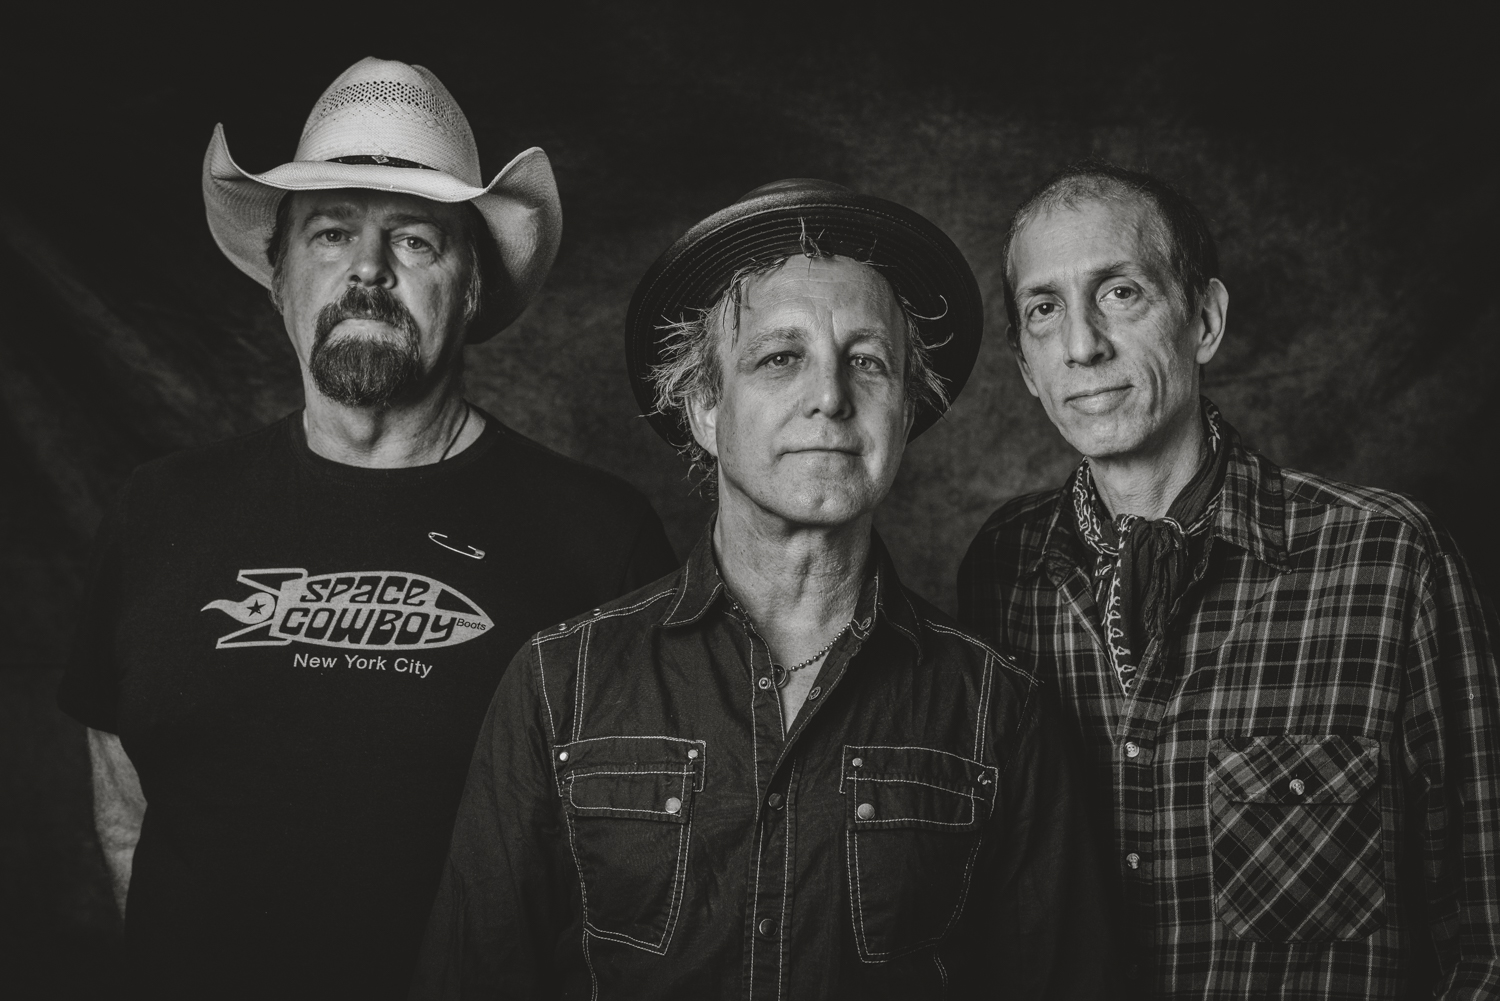
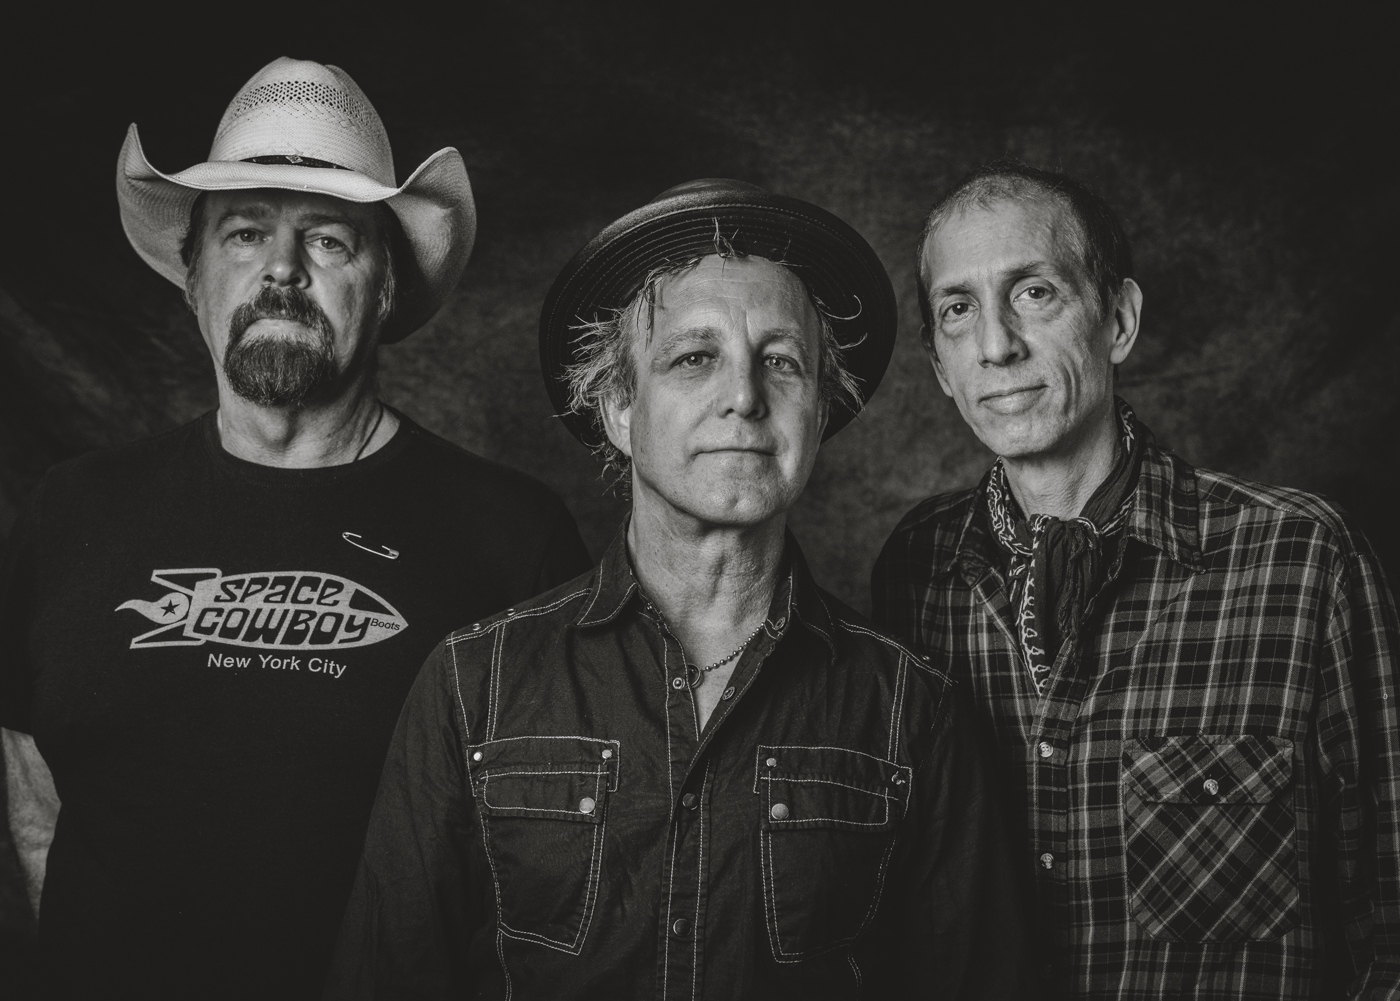
changed background, cropped images, added a few images

diff --git a/index.html b/index.html
@@ -25,7 +25,7 @@
       crossorigin="anonymous"
       referrerpolicy="no-referrer"
     ></script>
-    <script type="module">
+    <!-- <script type="module">
       var canvas = document.querySelector("#c");
       var renderer = new THREE.WebGLRenderer({ antialias: true, canvas: c });
       renderer.setSize(canvas.clientWidth, canvas.clientHeight);
@@ -75,7 +75,7 @@
         renderer.render(scene, camera);
       }
       anim();
-    </script>
+    </script> -->
     <script src="menu_tabs.js"></script>
   </head>
   <body>
@@ -146,23 +146,20 @@
                 <img class='noselect'
                   src="img/ray.jpg"
                 />
-                
                 <div class='rostertext noselect'>RAY CHARLES</div>
                 <a href='https://en.wikipedia.org/wiki/Ray_Charles_(musician,_born_1918)' target='_blank'><div class='overlay'></div></a>
               </td>
               <td>
                 <img class='noselect'
-                  src="https://www.rollingstone.com/wp-content/uploads/2018/06/rs-24185-33639_lg.jpg?resize=1800,1200&w=450"
+                  src="img/davestruestory.jpg"
                 />
-                
                 <div class='rostertext noselect'>DAVE'S TRUE STORY</div>
                 <a href='https://www.davestruestory.com/' target='_blank'><div class='overlay'></div></a>
               </td>
               <td>
                 <img class='noselect'
-                  src="https://ksr-ugc.imgix.net/assets/011/271/113/a538dbbae1fd1e0b871d557c3de01007_original.jpg?ixlib=rb-4.0.2&crop=faces&w=1552&h=873&fit=crop&v=1463673868&auto=format&frame=1&q=92&s=1d41123b2023d352e1a84c7a9f256d83"
+                  src="img/courtney.PNG"
                 />
-                
                 <div class='rostertext noselect'>COURTNEY JONES</div>
                 <a href='https://www.facebook.com/pages/category/Musician-Band/Courtney-Jones-Music-38021533555/' target='_blank'><div class='overlay'></div></a>
               </td>
@@ -172,7 +169,6 @@
                 <img class='noselect'
                   src="img/neil.JPG"
                 />
-                
                 <div class='rostertext noselect'>NEIL ROSENGARDEN</div>
                 <a href='https://neilrosengarden1.bandcamp.com/' target='_blank'><div class='overlay'></div></a>
               </td>
@@ -180,7 +176,6 @@
                 <img class='noselect'
                   src="https://www.americanacma.org/wp-content/uploads/2021/10/Screen-Shot-2021-10-30-at-9.52.56-AM.png"
                 />
-                
                 <div class='rostertext noselect'>LIPBONE REDDING</div>
                 <a href='https://www.lipbone.com/' target='_blank'><div class='overlay'></div></a>
               </td>
@@ -188,7 +183,6 @@
                 <img class='noselect'
                   src="img/sixthletter.PNG"
                 />
-                
                 <div class='rostertext noselect'>THE SIXTH LETTER</div>
                 <a href='https://www.thesixthletter.co.uk/' target='_blank'><div class='overlay'></div></a>
               </td>
@@ -198,7 +192,6 @@
                 <img class='noselect'
                   src="img/mlumbo.jpg"
                 />
-                
                 <div class='rostertext noselect'>M'LUMBO</div>
                 <a href='https://www.mlumbo.com/' target='_blank'><div class='overlay'></div></a>
               </td>
@@ -206,7 +199,6 @@
                 <img class='noselect'
                   src="img/marc.jpeg"
                 />
-                
                 <div class='rostertext noselect'>MARC BERGER</div>
                 <a href='https://marcbergermusic.com/' target='_blank'><div class='overlay'></div></a>
               </td>
@@ -214,7 +206,6 @@
                 <img class='noselect'
                   src="img/buick6.jpg"
                 />
-                
                 <div class='rostertext noselect'>BUICK 6</div>
                 <a href='https://www.facebook.com/Buick6Music' target='_blank'><div class='overlay'></div></a>
               </td>
@@ -282,7 +273,7 @@
               </td>
               <td>
                 <img class='noselect'
-                  src="https://alchetron.com/cdn/peter-malick-799b38a3-982e-48a8-b09f-d5315b75c07-resize-750.jpeg"
+                  src="img/peter.PNG"
                 />
                 <div class='rostertext noselect'>PETER MALICK</div>
                 <a href='https://en.wikipedia.org/wiki/Peter_Malick' target='_blank'><div class='overlay'></div></a>
@@ -291,7 +282,7 @@
             <tr>
               <td>
                 <img class='noselect'
-                  src="https://www.miltonmusic.com/site/assets/files/1016/milton.jpg"
+                  src="img/milton.jpg"
                 />
                 <div class='rostertext noselect'>MILTON</div>
                 <a href='https://www.miltonmusic.com/' target='_blank'><div class='overlay'></div></a>

diff --git a/style.css b/style.css
@@ -19,6 +19,15 @@ body,
   left: 0;
   width: 100%;
   height: 100%;
+  background: #380707;
+}
+
+::-moz-selection { /* Code for Firefox */
+  background: red;
+}
+
+::selection {
+  background: red;
 }
 
 #c {
@@ -239,9 +248,9 @@ body,
 #roster td {
   position: relative;
   display: inline-block;
-  height: 25vw;
-  width: 30vw;
-  margin: 1vw;
+  height: 20vw;
+  width: 28vw;
+  margin: 0.5vw;
 }
 
 #roster img {
@@ -435,12 +444,3 @@ body,
   padding-top: 2vh;
   text-align: center;
 }
-
-
-/*
-▒▒▄▀▀▀▀▀▄▒▒▒▒▒▄▄▄▄▄▒▒▒
-▒▐░▄░░░▄░▌▒▒▄█▄█▄█▄█▄▒
-▒▐░▀▀░▀▀░▌▒▒▒▒▒░░░▒▒▒▒
-▒▒▀▄░═░▄▀▒▒▒▒▒▒░░░▒▒▒▒
-▒▒▐░▀▄▀░▌▒▒▒▒▒▒░░░▒▒▒▒
-*/
